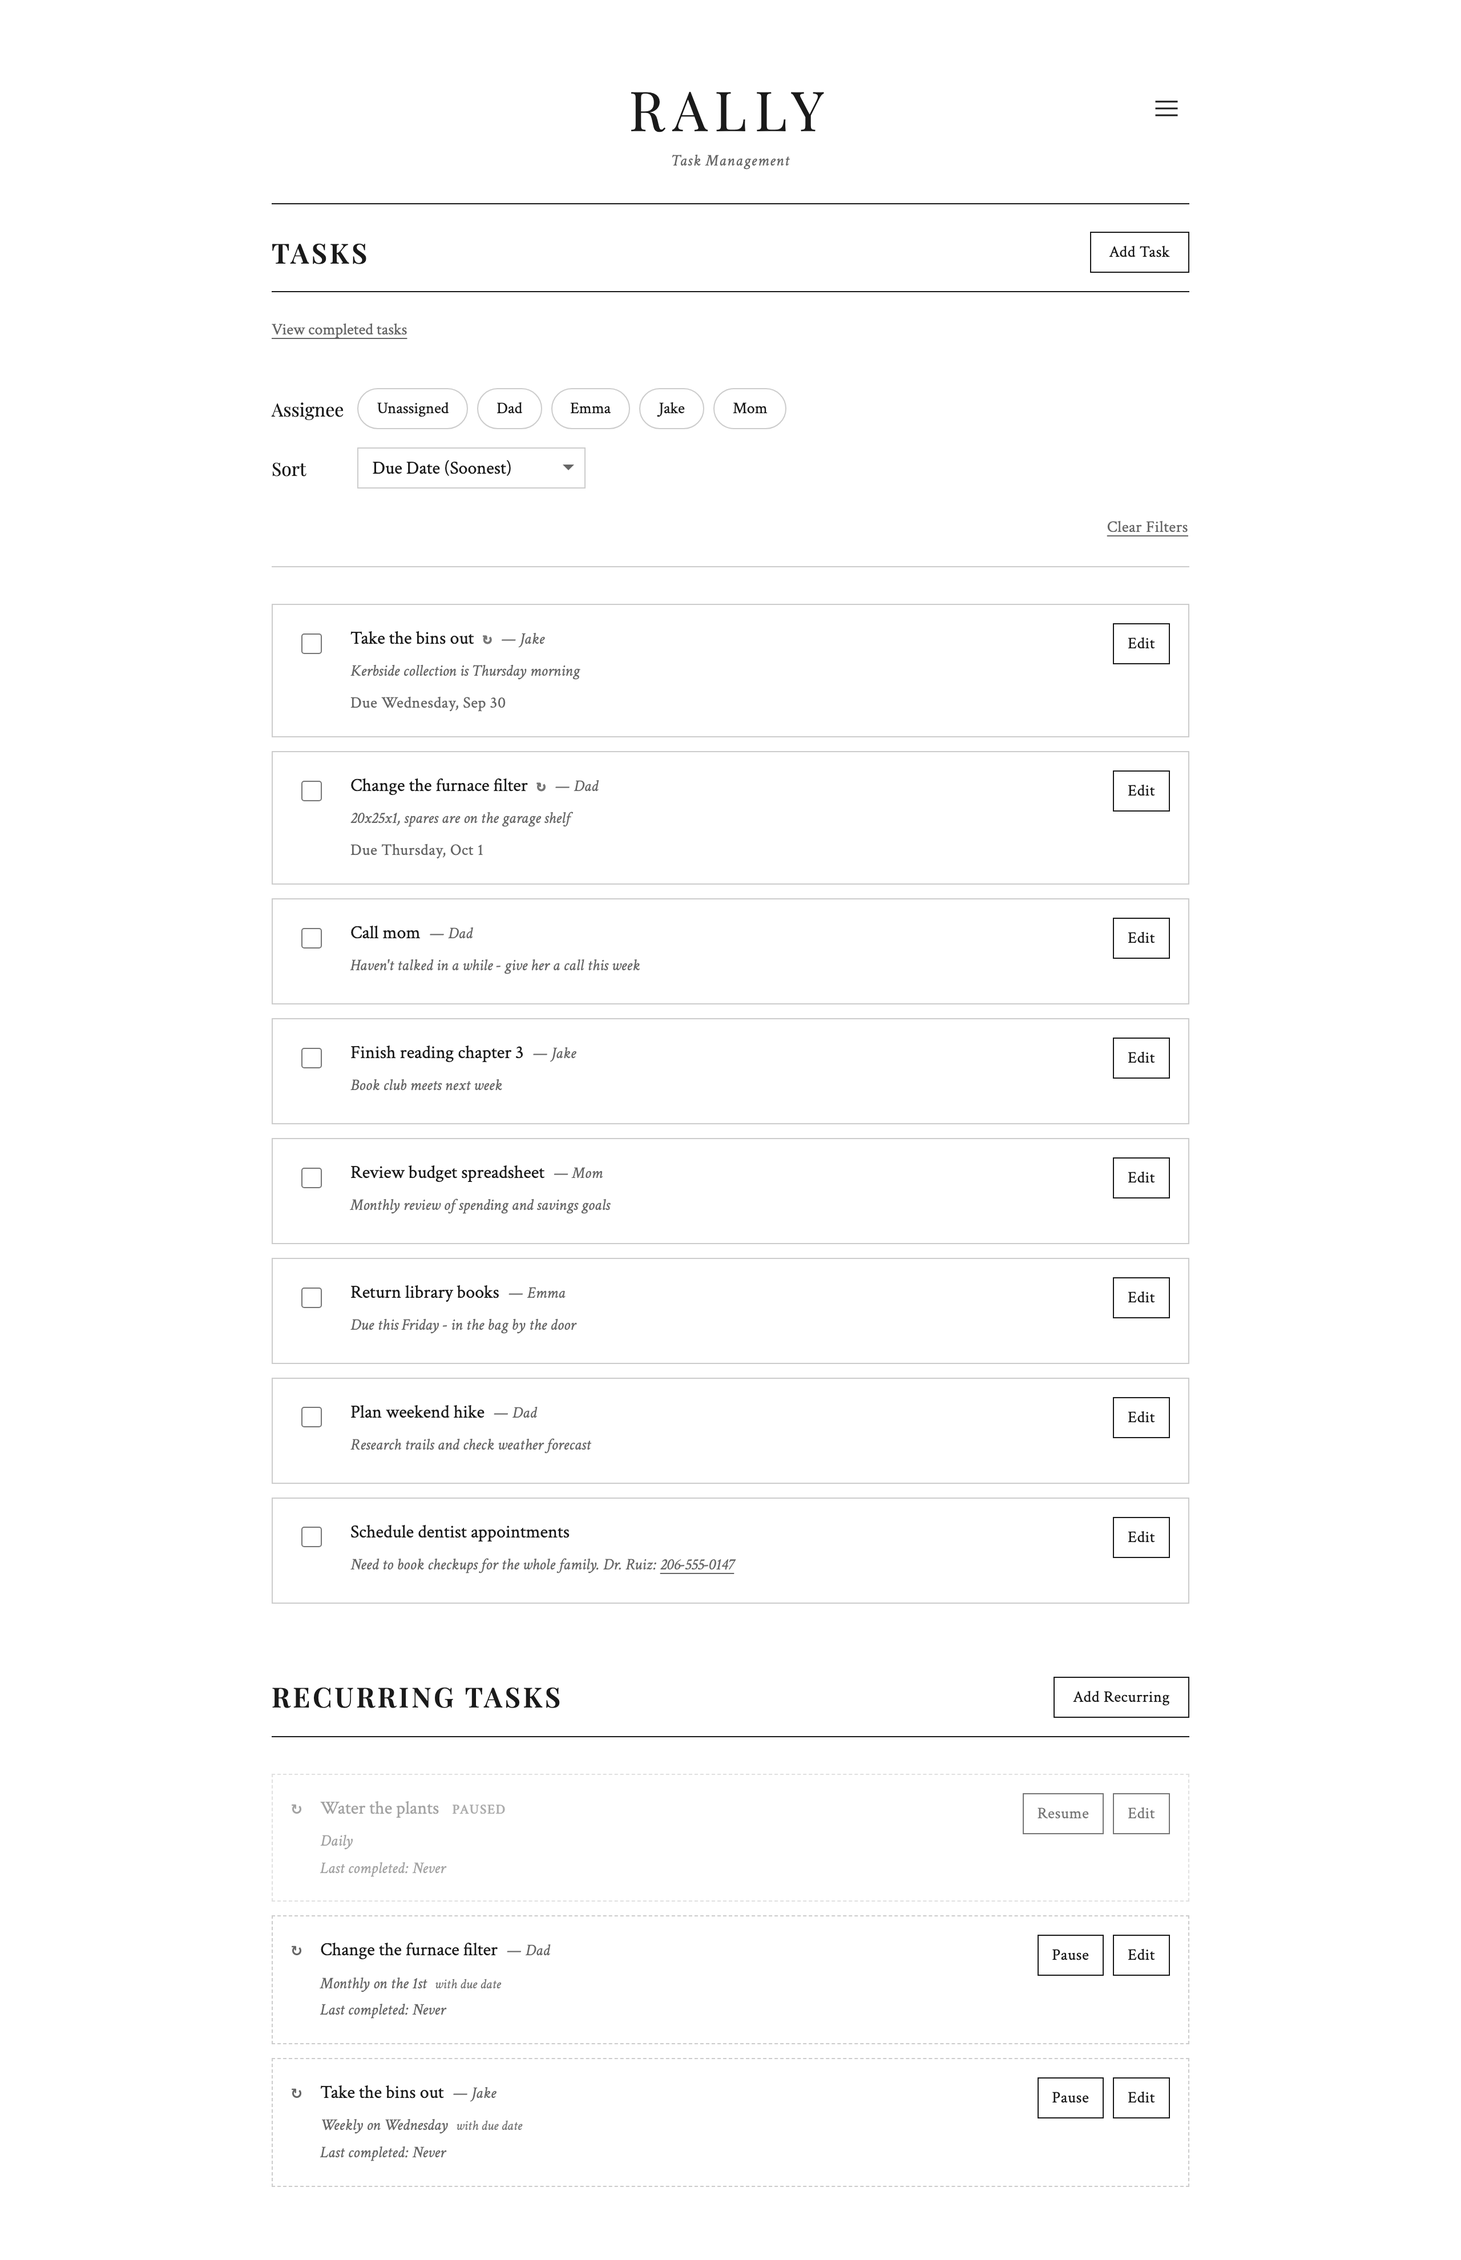
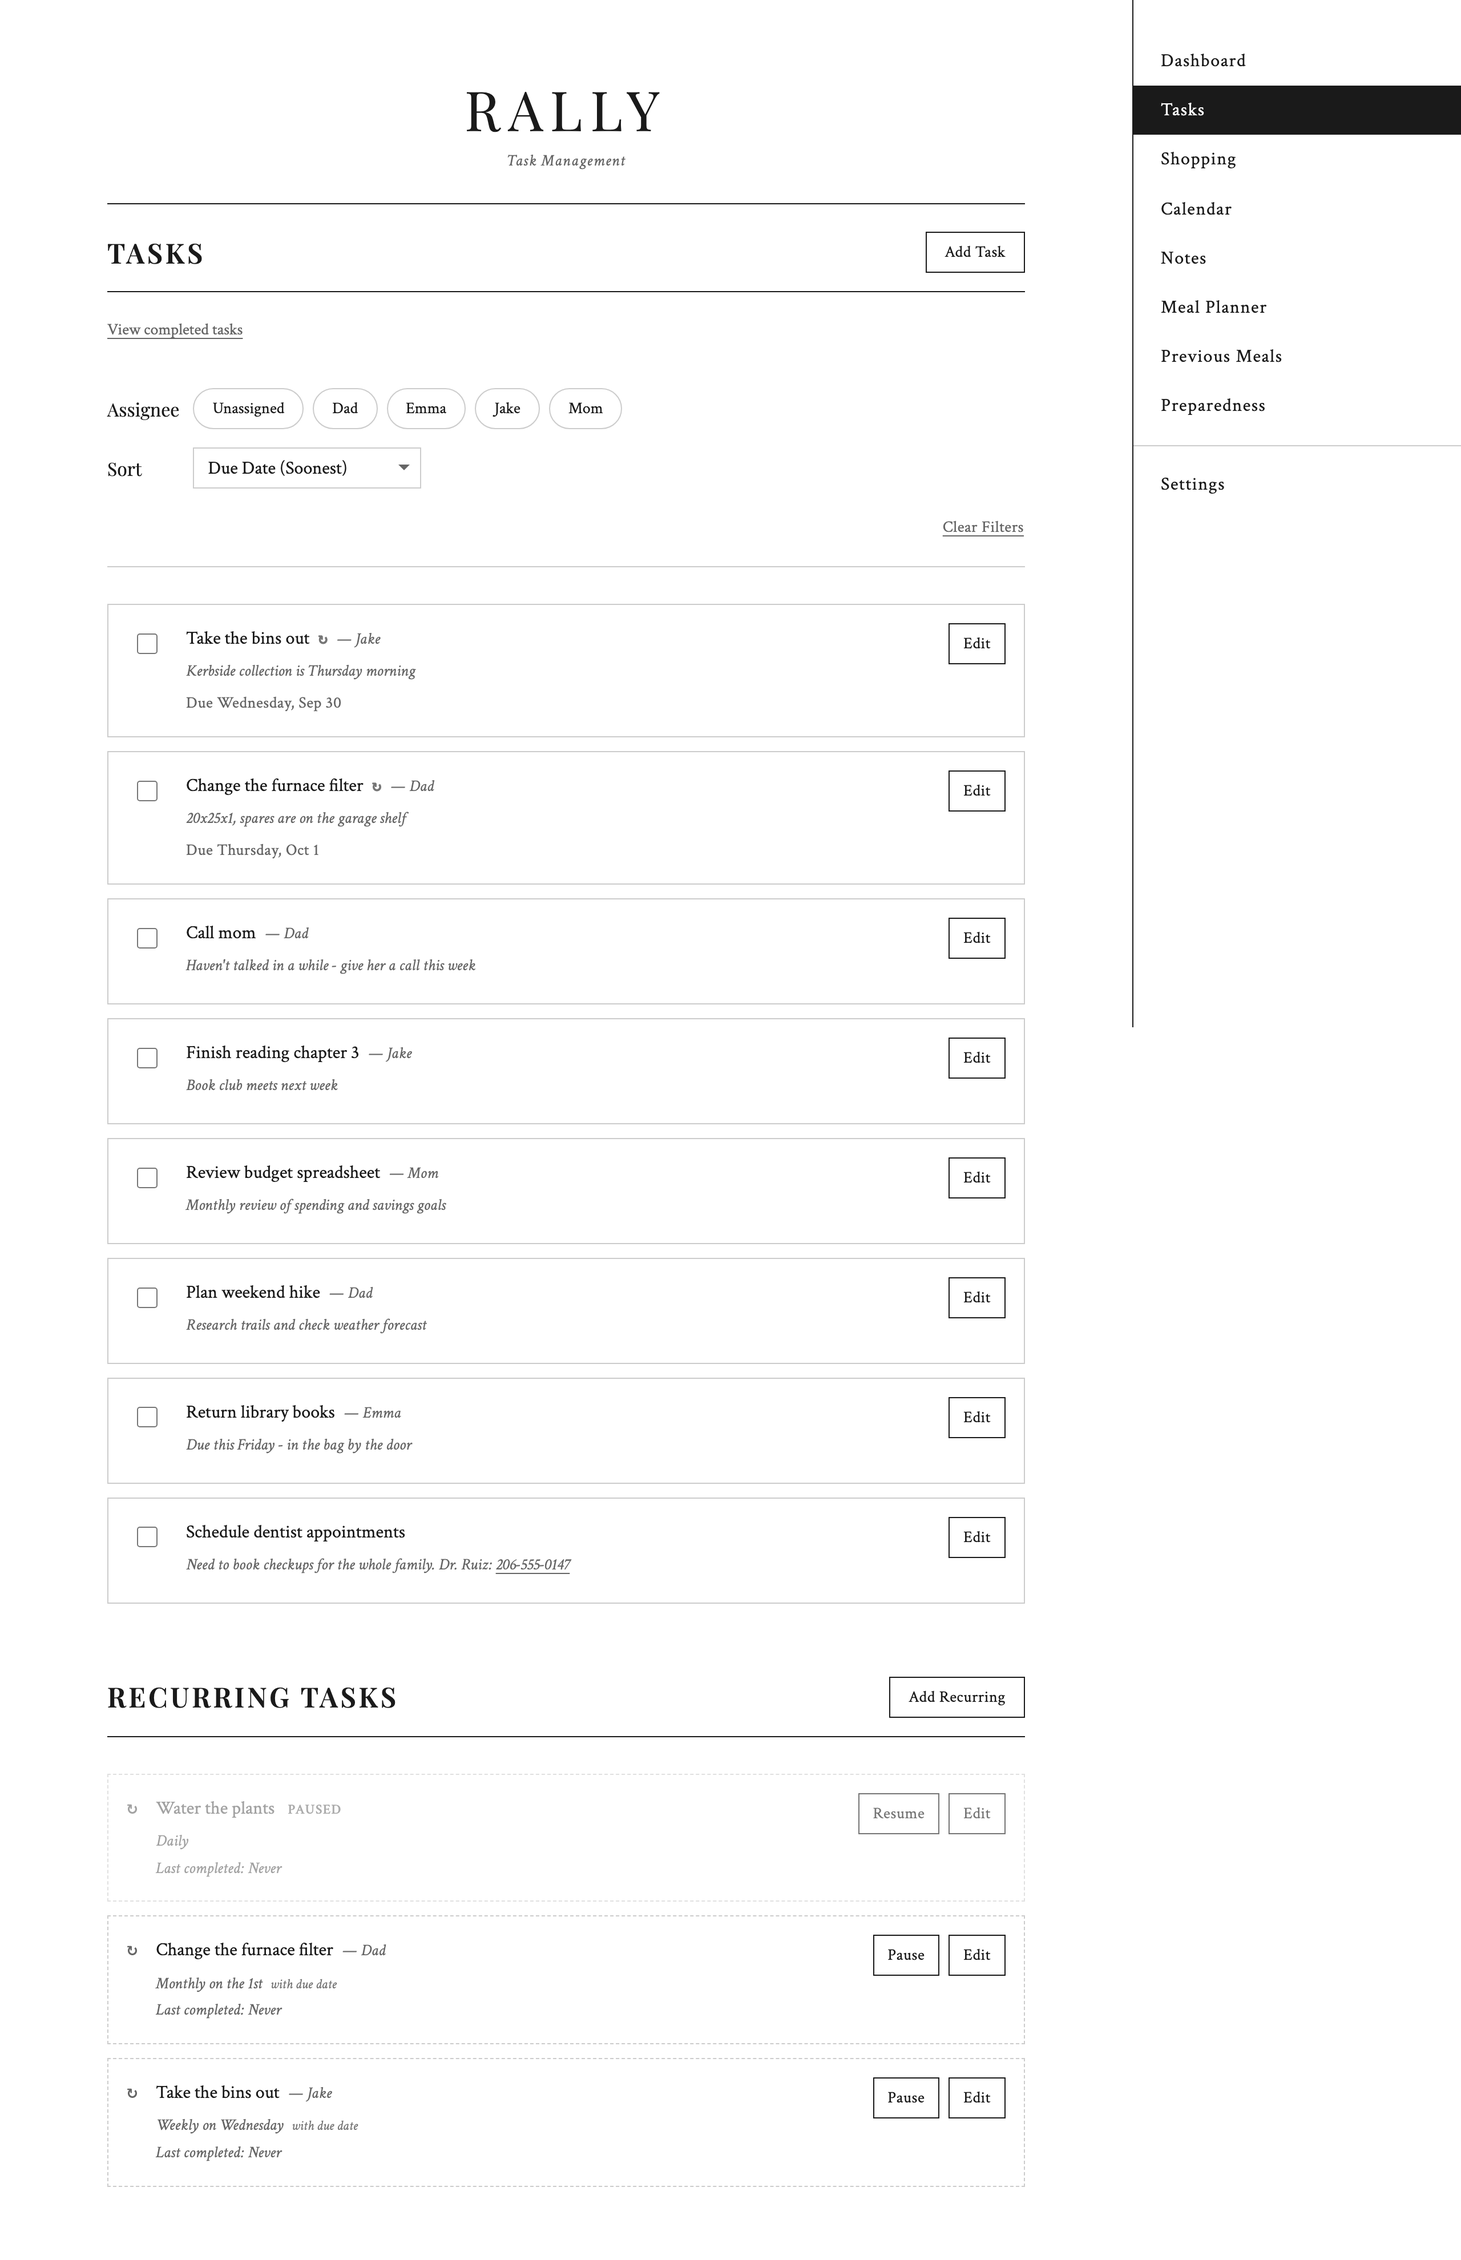
Dock the sidebar open on screens wide enough to fit it beside the page
At 75rem and wider the 900px page column and the 18rem sidebar fit side by
side, so the sidebar stays open with no button or scrim, and the column
centres in the space left of it. Below that an open sidebar would cover
content, so it stays behind the menu button as before; the phone treatment
is unchanged. sidebar.js drops an overlay's open state when a resize crosses
into the docked width.

diff --git a/static/styles.css b/static/styles.css
@@ -402,6 +402,31 @@ footer {
     color: var(--inverse);
 }
 
+/* Docked: once the page column and the sidebar fit side by side, the sidebar
+   stays open and the column centres in the space left of it. Hiding it behind
+   a button there would spend a click on every navigation to save space the
+   page cannot use anyway. 75rem is --page-max (900px) plus --sidebar-width
+   (18rem), rounded up; below it an open sidebar would cover content, so it
+   goes back behind the menu button. static/sidebar.js reads "is the button
+   displayed" rather than repeating this width. */
+@media screen and (min-width: 75rem) {
+    html {
+        padding-right: var(--sidebar-width);
+    }
+
+    .menu-button,
+    .sidebar-scrim {
+        display: none;
+    }
+
+    .sidebar,
+    .sidebar-open .sidebar {
+        transform: none;
+        visibility: visible;
+        transition: none;
+    }
+}
+
 /* ---- Buttons ----
    One family, four roles. `.btn` is the outlined default that inverts on
    hover; `--secondary` is the quieter partner for Cancel and Delete;

diff --git a/static/sidebar.js b/static/sidebar.js
@@ -75,6 +75,14 @@
             }
         });
 
+        // Widening the window past the docking width puts the sidebar on the
+        // page permanently and hides the button, so an overlay opened before
+        // the resize has nothing left to close it. The stylesheet owns the
+        // breakpoint; a hidden button is how this file learns it was crossed.
+        window.addEventListener('resize', function () {
+            if (isOpen() && getComputedStyle(toggle).display === 'none') close(false);
+        });
+
         // Back/forward restores a page from the cache exactly as it was left,
         // which would be with the sidebar open over it after following a link.
         window.addEventListener('pageshow', function (e) {

diff --git a/tests/visual/test_sidebar.py b/tests/visual/test_sidebar.py
@@ -2,8 +2,9 @@
 
 What matters here cannot be read off the HTML: that the menu button is where
 the design says at each width, that the sidebar slides in over a page that
-stays scrollable, and that a tap outside it closes it *and goes no further* —
-the checkbox under that tap must not change.
+stays scrollable, that a tap outside it closes it *and goes no further* — the
+checkbox under that tap must not change — and that where there is room beside
+the page column the sidebar is simply docked open, covering nothing.
 """
 
 from __future__ import annotations
@@ -14,13 +15,19 @@ from .conftest import VIEWPORTS
 
 TARGET_MIN = 44.0
 
+# Viewports on which the sidebar is an overlay behind the menu button: a phone,
+# a tablet, and a laptop window too narrow to fit the column and the sidebar
+# side by side. At "desktop" (1440) it is docked.
+OVERLAY = {**VIEWPORTS, "laptop-narrow": (1100, 800)}
+del OVERLAY["desktop"]
+
 
 @pytest.fixture
 def open_page(browser, live_server):
     contexts = []
 
     def _open(path: str, viewport: str):
-        width, height = VIEWPORTS[viewport]
+        width, height = {**VIEWPORTS, **OVERLAY}[viewport]
         ctx = browser.new_context(
             viewport={"width": width, "height": height},
             is_mobile=(viewport == "mobile"),
@@ -62,7 +69,7 @@ def test_phone_button_floats_in_the_bottom_right_corner(open_page):
     assert page.locator("[data-sidebar-toggle]").bounding_box()["y"] == box["y"]
 
 
-@pytest.mark.parametrize("viewport", ["tablet", "desktop"])
+@pytest.mark.parametrize("viewport", ["tablet", "laptop-narrow"])
 def test_wide_button_sits_at_the_headers_right_edge(open_page, viewport):
     page = open_page("/dashboard", viewport)
     header = page.locator(".header").bounding_box()
@@ -83,10 +90,10 @@ def test_wide_button_sits_at_the_headers_right_edge(open_page, viewport):
     assert abs(text - (header["x"] + header["width"] / 2)) < 2
 
 
-@pytest.mark.parametrize("viewport", sorted(VIEWPORTS))
+@pytest.mark.parametrize("viewport", sorted(OVERLAY))
 def test_opens_from_the_right_and_closes_on_escape(open_page, viewport):
     page = open_page("/todo", viewport)
-    width = VIEWPORTS[viewport][0]
+    width = OVERLAY[viewport][0]
     page.click("[data-sidebar-toggle]")
     _wait_settled(page)
     assert _is_open(page)
@@ -122,7 +129,7 @@ def test_a_tap_outside_closes_it_and_reaches_nothing(open_page):
 
 
 def test_the_page_scrolls_behind_the_open_sidebar(open_page):
-    page = open_page("/settings", "desktop")
+    page = open_page("/settings", "laptop-narrow")
     page.click("[data-sidebar-toggle]")
     _wait_settled(page)
     start = page.evaluate("window.scrollY")
@@ -135,7 +142,7 @@ def test_the_page_scrolls_behind_the_open_sidebar(open_page):
 
 
 def test_the_toggle_closes_it_again_where_it_is_reachable(open_page):
-    page = open_page("/calendar", "desktop")
+    page = open_page("/calendar", "laptop-narrow")
     page.click("[data-sidebar-toggle]")
     _wait_settled(page)
     assert page.get_attribute("[data-sidebar-toggle]", "aria-expanded") == "true"
@@ -177,6 +184,55 @@ def test_hidden_in_print(open_page):
     page.emulate_media(media="print")
     for sel in ("[data-sidebar-toggle]", "#site-sidebar", "[data-sidebar-scrim]"):
         assert page.eval_on_selector(sel, "el => getComputedStyle(el).display") == "none"
+
+
+@pytest.mark.parametrize("path", ["/dashboard", "/calendar", "/settings"])
+def test_docked_open_beside_the_page_where_there_is_room(open_page, path):
+    """At 1440 the column and the sidebar fit side by side, so the sidebar is
+    on the page without a click, covers nothing, and there is no button."""
+    page = open_page(path, "desktop")
+    width = VIEWPORTS["desktop"][0]
+    sidebar = page.locator("#site-sidebar").bounding_box()
+    assert page.locator("#site-sidebar").is_visible()
+    assert abs(sidebar["x"] + sidebar["width"] - width) < 1
+    assert not page.locator("[data-sidebar-toggle]").is_visible()
+    assert not page.locator("[data-sidebar-scrim]").is_visible()
+    body = page.locator("body").bounding_box()
+    assert body["x"] + body["width"] <= sidebar["x"] + 1, "the sidebar covers the page"
+    # The column centres in the space left of the sidebar.
+    left_gap = body["x"]
+    right_gap = sidebar["x"] - (body["x"] + body["width"])
+    assert abs(left_gap - right_gap) < 2
+    assert page.get_attribute("#site-sidebar a[aria-current='page']", "href") == path
+
+
+def test_docked_page_still_scrolls_and_links_navigate(open_page):
+    page = open_page("/settings", "desktop")
+    page.mouse.move(400, 400)
+    page.mouse.wheel(0, 600)
+    page.wait_for_timeout(300)
+    assert page.evaluate("window.scrollY") > 0
+    page.click("#site-sidebar a[href='/todo']")
+    page.wait_for_url("**/todo")
+    assert page.locator("#site-sidebar").is_visible()
+
+
+def test_resizing_moves_between_overlay_and_docked(open_page):
+    page = open_page("/dashboard", "laptop-narrow")
+    page.click("[data-sidebar-toggle]")
+    _wait_settled(page)
+    assert _is_open(page)
+    # Wider: docked, and the overlay's open state is dropped with its button.
+    page.set_viewport_size({"width": 1440, "height": 800})
+    page.wait_for_timeout(200)
+    assert not _is_open(page)
+    assert page.locator("#site-sidebar").is_visible()
+    assert not page.locator("[data-sidebar-scrim]").is_visible()
+    # Narrower again: back behind the button, closed.
+    page.set_viewport_size({"width": 1100, "height": 800})
+    _wait_settled(page)
+    assert not page.locator("#site-sidebar").is_visible()
+    assert page.locator("[data-sidebar-toggle]").is_visible()
 
 
 def _centre(box):

diff --git a/scripts/capture_screenshots.py b/scripts/capture_screenshots.py
@@ -314,13 +314,15 @@ SHOTS: tuple[Shot, ...] = (
         scale=1,
         setup=_calendar("calendar", "month"),
     ),
-    # The site menu: the sidebar on a laptop, and the phone's corner box
-    # closed and then open. Viewport-sized, since the sidebar is fixed to it.
+    # The site menu: docked beside the page where both fit, opened over it on
+    # a laptop too narrow for that, and the phone's corner box closed and then
+    # open. Viewport-sized, since the sidebar is fixed to it.
+    Shot("nav-sidebar", "/dashboard", width=1440, height=900, scale=1, full_page=False),
     Shot(
-        "nav-sidebar",
+        "nav-sidebar-narrow",
         "/dashboard",
-        width=1440,
-        height=900,
+        width=1100,
+        height=800,
         scale=1,
         full_page=False,
         setup=_open_sidebar,

diff --git a/AGENTS.md b/AGENTS.md
@@ -748,7 +748,7 @@ rally/
 - ✅ SQLite database with FamilyMember, Calendar, Setting, DashboardSnapshot, Todo, RecurringTodo, and DinnerPlan models
 - ✅ Dashboard caching via DashboardSnapshot table (no auto-generation on page load)
 - ✅ Dashboard route (`/dashboard`) - renders from cached snapshot only
-- ✅ Navigation via a hamburger menu and right-hand sidebar on a shared Jinja base layout (`templates/base.html`) — see **Navigation**
+- ✅ Navigation via a right-hand sidebar — docked open on wide screens, behind a hamburger menu otherwise — on a shared Jinja base layout (`templates/base.html`); see **Navigation**
 - ✅ Family members - Full CRUD API and UI
   - Color-coded identities for each family member, from a **closed palette** of five (`src/rally/member_colors.py`, `--member-*` in the stylesheet)
     - Rally is grayscale and e-ink first, so a member's color is the only color-carrying channel in the app. The palette is a fixed set rather than free hex because one arbitrary value can defeat the guarantee the set exists for: that any two members are distinguishable on any display Rally runs on
@@ -1103,11 +1103,14 @@ visual suite (above) before shipping a layout change.
 ### Navigation
 Every page extends **`templates/base.html`**, which owns the `<head>`, the wordmark header, the menu button and the sidebar. A page supplies only its `title` block (the part after `Rally — `, always an em dash), its `subtitle`, any page-specific `head` scripts, and its `content`; it names its own sidebar entry with `{% set nav_active = "…" %}` at the top. A nav change is therefore made **once**, in `base.html` — the old nav was copied into fourteen templates and had already drifted. Every page renders through the one Jinja environment in `src/rally/templating.py`, including the Dashboard, which used to be filled in with `str.replace` and so could not share a layout; its HTML-bearing values arrive as `Markup` so they are inserted exactly as before.
 
-Navigation is a **hamburger menu that opens a sidebar from the right** (`static/sidebar.js`). It lists, in order: Dashboard, Tasks, Shopping, Calendar, Notes, Meal Planner, Previous Meals, Preparedness, then a hairline and **Settings** — the order the old row and `Other` dropdown had, with Settings moved up from the footer (which had left five pages with no way to reach Settings at all). A list scales with new pages where a button row did not, and it scrolls on its own once it runs out of height.
+Navigation is a **sidebar on the right** (`static/sidebar.js`): docked open where there is room beside the page, and behind a hamburger menu where it would cover content. It lists, in order: Dashboard, Tasks, Shopping, Calendar, Notes, Meal Planner, Previous Meals, Preparedness, then a hairline and **Settings** — the order the old row and `Other` dropdown had, with Settings moved up from the footer (which had left five pages with no way to reach Settings at all). A list scales with new pages where a button row did not, and it scrolls on its own once it runs out of height.
 
 - **A subpage marks its parent**: `/todo/completed` → Tasks, `/shopping/purchased` → Shopping, `/notes/previous` → Notes, `/go-list` → Preparedness. `/settings` marks Settings; `/styleguide` marks nothing. The mark is `aria-current="page"`, drawn in the `--ink`/`--inverse` inversion the old active button used
 - **The go list is not in the sidebar**: it is a view of the inventory, reached by `View go list` on Preparedness
-- **Width alone decides the treatment**, at the same 767px breakpoint as everything else. 768px and wider (the wall tablet included): a borderless icon at the header's right edge that scrolls away with the page. Below: a bordered box fixed to the bottom-right corner, which is the only way to the nav on a phone, and `body` gains bottom padding so the last row's actions can scroll clear of it
+- **Width alone decides the treatment**, in three bands:
+  - **75rem (1200px) and wider — docked.** The page column (`--page-max`, 900px) and the sidebar (`--sidebar-width`, 18rem) fit side by side, so the sidebar is simply open: no button, no scrim, and `html` gains `padding-right: var(--sidebar-width)` so the column centres in the space left of it. Hiding it there would cost a click per navigation to save space the page cannot use. `sidebar.js` never repeats this width — it treats "the button is not displayed" as docked, and drops an overlay's open state when a resize crosses the line
+  - **768px up to 75rem — overlay, button in the header.** An open sidebar would cover content here (the laptop window, the wall tablet), so it stays behind a borderless icon at the header's right edge that scrolls away with the page
+  - **Below 768px — overlay, button in the corner.** A bordered box fixed to the bottom-right corner is the only way to the nav on a phone, and `body` gains bottom padding so the last row's actions can scroll clear of it
 - **The page stays scrollable behind an open sidebar**, and is dimmed more lightly than a modal. The scrim is fixed and never scrollable itself, so a wheel or a finger dragged across it scrolls the document; a *tap* on it lands on the scrim, closes the sidebar, and reaches nothing underneath. Closing is on `click`, never `pointerdown` — removing the scrim before the click fires would hand the click to the checkbox beneath
 - Closes on a tap outside, `Esc` (focus returns to the button), the button where it is reachable, following a link, and tabbing out of it. A back/forward restore closes it too, so a cached page never comes back with it open
 - On a phone the sidebar is capped narrower than the viewport so there is always a strip to tap; there is no close button
